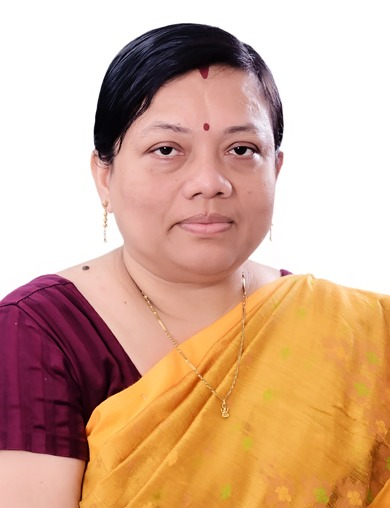
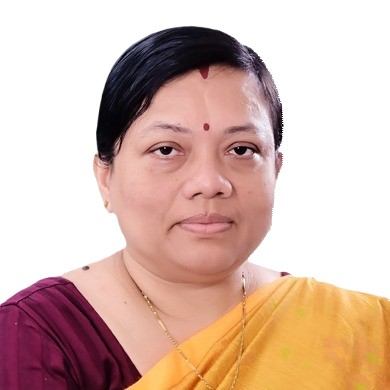
[add]/upcoming-event

diff --git a/css/style.css b/css/style.css
@@ -119,6 +119,7 @@
   height: auto;
   border-radius: 50%;
   box-shadow: 0 0 10px rgba(255, 255, 255, 0.436);
+  background-color: #fff;
 }
 
 .speaker h3 {
